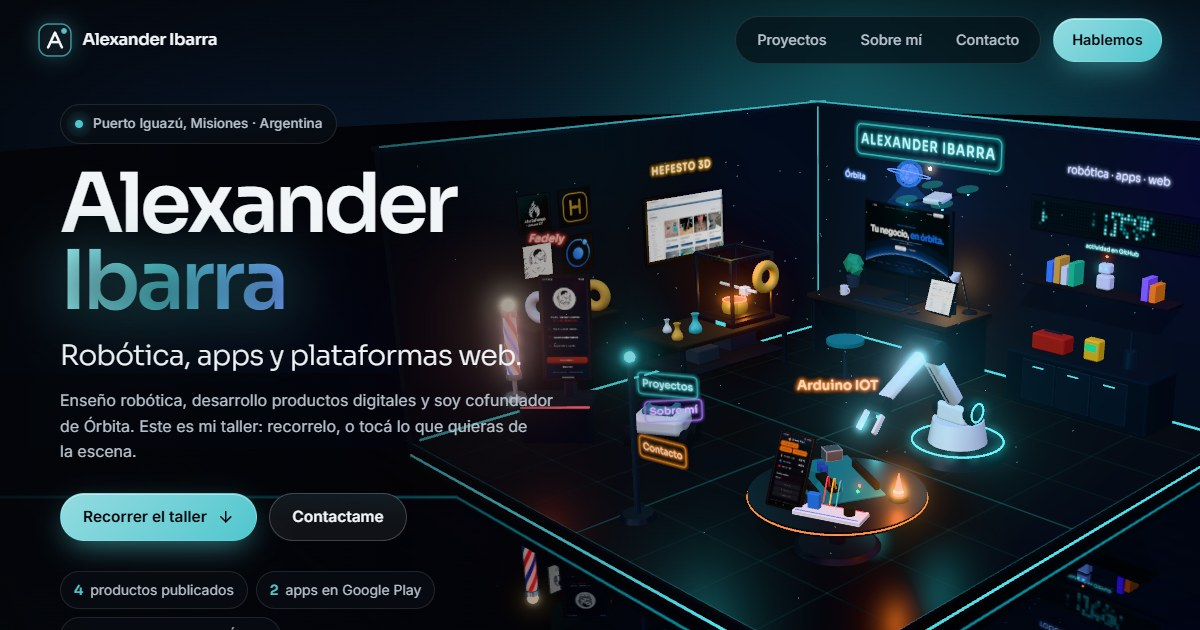
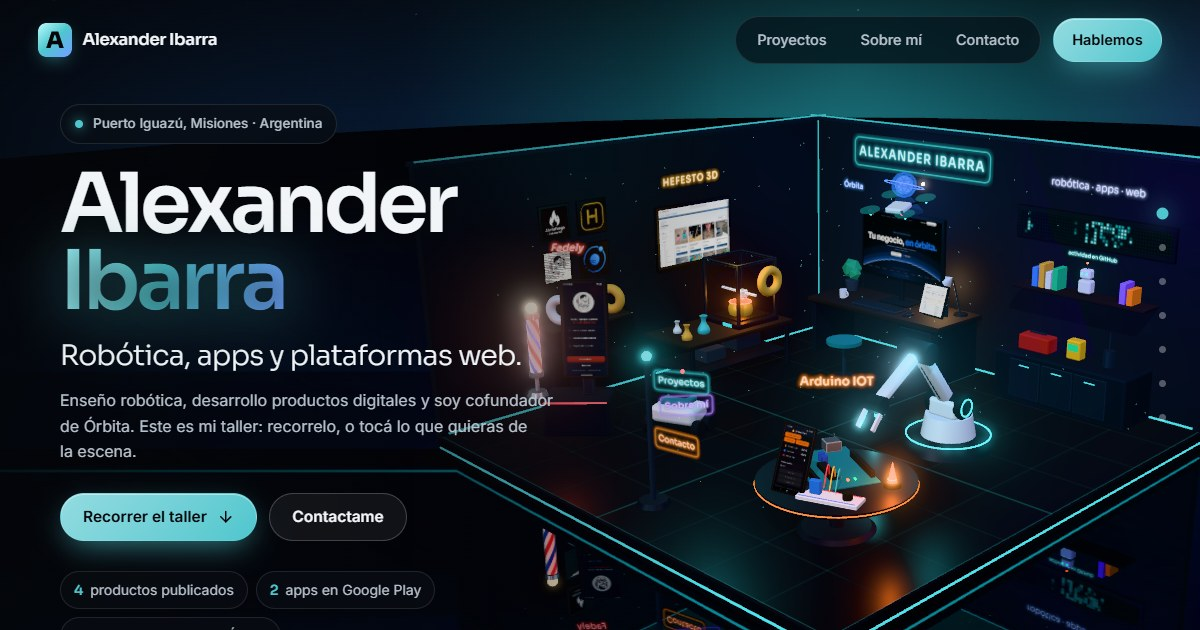
Actividad de GitHub sin depender del token, y arreglos de la escena
- api/github: si el token falta o venció, lee el calendario público del perfil
- taller: no dibuja mientras el lienzo no tiene tamaño
- logo y favicon nuevos, y metadatos completos para compartir el enlace

diff --git a/api/github.js b/api/github.js
@@ -1,81 +1,109 @@
 // api/github.js
-export default async function handler(req, res) {
-  try {
-    const username = process.env.GITHUB_USERNAME;
-    const token = process.env.GITHUB_TOKEN;
+// Contribuciones del año en GitHub, para el panel de LEDs del taller.
+// Usa la API oficial si hay un token válido; si no hay, o GitHub lo rechaza (por ejemplo, porque
+// venció), lee el calendario público del perfil, que no necesita token.
 
-    if (!username) {
-      return res.status(500).json({ error: "Falta GITHUB_USERNAME en Vercel." });
-    }
+const CAP = 10;
 
-    // SOLO 2026
-    const from = "2026-01-01T00:00:00Z";
-    const to = "2026-12-31T23:59:59Z";
-
-
-    const query = `
-      query ($login: String!, $from: DateTime!, $to: DateTime!) {
-        user(login: $login) {
-          contributionsCollection(from: $from, to: $to) {
-            contributionCalendar {
-              totalContributions
-              weeks {
-                contributionDays {
-                  date
-                  contributionCount
-                }
-              }
-            }
+// API oficial (GraphQL): necesita GITHUB_TOKEN
+async function fromApi(username, token, year) {
+  const query = `
+    query ($login: String!, $from: DateTime!, $to: DateTime!) {
+      user(login: $login) {
+        contributionsCollection(from: $from, to: $to) {
+          contributionCalendar {
+            totalContributions
+            weeks { contributionDays { date contributionCount } }
           }
         }
       }
-    `;
-
-    const ghRes = await fetch("https://api.github.com/graphql", {
-      method: "POST",
-      headers: {
-        "Content-Type": "application/json",
-        ...(token ? { Authorization: `Bearer ${token}` } : {}),
-      },
-      body: JSON.stringify({
-        query,
-        variables: { login: username, from, to },
-      }),
-    });
-
-    const raw = await ghRes.text();
-    let data = {};
-    try { data = raw ? JSON.parse(raw) : {}; } catch { }
-
-    if (!ghRes.ok || data.errors) {
-      return res.status(500).json({
-        error: data?.errors?.[0]?.message || "Error consultando GitHub GraphQL",
-        details: data,
-      });
     }
+  `;
 
-    const weeks =
-      data?.data?.user?.contributionsCollection?.contributionCalendar?.weeks || [];
+  const ghRes = await fetch("https://api.github.com/graphql", {
+    method: "POST",
+    headers: { "Content-Type": "application/json", Authorization: `Bearer ${token}` },
+    body: JSON.stringify({
+      query,
+      variables: { login: username, from: `${year}-01-01T00:00:00Z`, to: `${year}-12-31T23:59:59Z` },
+    }),
+  });
 
-    const CAP = 10;
-    const dates = [];
-
-    for (const w of weeks) {
-      for (const d of w.contributionDays) {
-        const repeat = Math.min(d.contributionCount || 0, CAP);
-        for (let i = 0; i < repeat; i++) dates.push(d.date);
-      }
-    }
-
-    return res.status(200).json({
-      activityData: dates.join(","),
-      rangeStart: "2026-01-01",
-      rangeEnd: "2026-12-31",
-      cap: CAP,
-      total:
-        data.data.user.contributionsCollection.contributionCalendar.totalContributions,
-    });
-  } catch (err) {
-    return res.status(500).json({ error: "Error inesperado.", detail: String(err) });
+  const data = await ghRes.json().catch(() => ({}));
+  if (!ghRes.ok || data.errors) {
+    throw new Error(data?.errors?.[0]?.message || data?.message || `GitHub respondió ${ghRes.status}`);
   }
+
+  const calendar = data?.data?.user?.contributionsCollection?.contributionCalendar;
+  if (!calendar) throw new Error("GitHub no devolvió el calendario");
+  const days = calendar.weeks.flatMap((w) => w.contributionDays.map((d) => [d.date, d.contributionCount || 0]));
+  return { days, total: calendar.totalContributions };
+}
+
+// calendario público del perfil: el mismo que se ve en github.com, sin token
+async function fromProfile(username, year) {
+  const ghRes = await fetch(
+    `https://github.com/users/${encodeURIComponent(username)}/contributions?from=${year}-01-01&to=${year}-12-31`,
+    { headers: { "User-Agent": "portfolio-activity", "X-Requested-With": "XMLHttpRequest" } },
+  );
+  if (!ghRes.ok) throw new Error(`el calendario público respondió ${ghRes.status}`);
+  const html = await ghRes.text();
+
+  // cada día es una celda con su fecha, y la cantidad está en el cartelito (tool-tip) que la acompaña
+  const tips = new Map(
+    [...html.matchAll(/<tool-tip\b[^>]*\bfor="([^"]+)"[^>]*>([^<]*)<\/tool-tip>/g)].map((m) => [m[1], m[2]]),
+  );
+  const days = [];
+  for (const [tag] of html.matchAll(/<td\b[^>]*\bdata-date="[^"]+"[^>]*>/g)) {
+    const date = tag.match(/\bdata-date="([^"]+)"/)[1];
+    const id = tag.match(/\bid="([^"]+)"/)?.[1];
+    const count = Number((tips.get(id) || "").match(/(\d+) contribution/)?.[1] || 0);
+    days.push([date, count]);
+  }
+  if (!days.length) throw new Error("no se pudo leer el calendario público");
+  return { days, total: days.reduce((sum, [, count]) => sum + count, 0) };
+}
+
+export default async function handler(req, res) {
+  const username = process.env.GITHUB_USERNAME || "ale050417";
+  const token = process.env.GITHUB_TOKEN;
+  const year = new Date().getUTCFullYear();
+
+  const problems = [];
+  let result = null;
+  if (token) {
+    try {
+      result = await fromApi(username, token, year);
+    } catch (err) {
+      problems.push(`API: ${err.message}`);
+    }
+  }
+  if (!result) {
+    try {
+      result = await fromProfile(username, year);
+    } catch (err) {
+      problems.push(`perfil: ${err.message}`);
+    }
+  }
+
+  if (!result) {
+    res.setHeader("Cache-Control", "no-store");
+    return res.status(502).json({ error: "No se pudo leer la actividad de GitHub.", details: problems });
+  }
+
+  // la API repite cada fecha una vez por contribución, con tope
+  const dates = [];
+  for (const [date, count] of result.days) {
+    for (let i = 0; i < Math.min(count, CAP); i++) dates.push(date);
+  }
+
+  // la actividad cambia poco: la respuesta queda guardada una hora en la red de Vercel
+  res.setHeader("Cache-Control", "public, s-maxage=3600, stale-while-revalidate=86400");
+  return res.status(200).json({
+    activityData: dates.join(","),
+    rangeStart: `${year}-01-01`,
+    rangeEnd: `${year}-12-31`,
+    cap: CAP,
+    total: result.total,
+  });
 }

diff --git a/index.html b/index.html
@@ -10,17 +10,25 @@
     <meta name="author" content="Alexander Ibarra">
     <meta name="theme-color" content="#04060A">
     <meta name="color-scheme" content="dark">
+    <link rel="canonical" href="https://www.alexanderibarra.com.ar/">
 
+    <!-- vista previa al compartir el enlace (WhatsApp, LinkedIn…): la imagen necesita la dirección completa -->
     <meta property="og:type" content="website">
     <meta property="og:locale" content="es_AR">
     <meta property="og:site_name" content="Alexander Ibarra">
+    <meta property="og:url" content="https://www.alexanderibarra.com.ar/">
     <meta property="og:title" content="Alexander Ibarra — Robótica, apps y plataformas web">
     <meta property="og:description"
         content="Un taller en 3D para recorrer: Órbita, Fadely, Hefesto 3D y Arduino IOT.">
-    <meta property="og:image" content="assets/og.jpg">
+    <meta property="og:image" content="https://www.alexanderibarra.com.ar/assets/og.jpg">
+    <meta property="og:image:width" content="1200">
+    <meta property="og:image:height" content="630">
+    <meta property="og:image:alt" content="El taller 3D del portafolio de Alexander Ibarra">
     <meta name="twitter:card" content="summary_large_image">
 
+    <link rel="icon" href="assets/favicon-32.png" sizes="32x32" type="image/png">
     <link rel="icon" href="assets/favicon.svg" type="image/svg+xml">
+    <link rel="apple-touch-icon" href="assets/apple-touch-icon.png">
 
     <!-- three.js para la escena 3D -->
     <script type="importmap">
@@ -80,6 +88,7 @@
         "@context": "https://schema.org",
         "@type": "Person",
         "name": "Alexander Ibarra",
+        "url": "https://www.alexanderibarra.com.ar/",
         "jobTitle": "Facilitador de robótica, desarrollador y cofundador de Órbita",
         "email": "mailto:alexanderibarra.dev@gmail.com",
         "address": {
@@ -141,10 +150,16 @@
     <!------------- encabezado ------------->
     <header class="site-header" id="siteHeader">
         <a class="brand" href="#inicio" aria-label="Alexander Ibarra, ir al inicio">
-            <svg class="brand__mark" viewBox="0 0 32 32" aria-hidden="true" focusable="false">
-                <rect class="brand__mark-bg" x="1" y="1" width="30" height="30" rx="9"/>
-                <path class="brand__mark-a" d="M9.5 23 16 9l6.5 14M12 18h8"/>
-                <circle class="brand__mark-dot" cx="24.5" cy="7.5" r="2.6"/>
+            <svg class="brand__mark" viewBox="0 0 64 64" aria-hidden="true" focusable="false">
+                <defs>
+                    <linearGradient id="brandFondo" x1="6" y1="4" x2="58" y2="60" gradientUnits="userSpaceOnUse">
+                        <stop offset="0" stop-color="#A8F5F8"/>
+                        <stop offset=".48" stop-color="#4FC6CE"/>
+                        <stop offset="1" stop-color="#6EA4FF"/>
+                    </linearGradient>
+                </defs>
+                <rect width="64" height="64" rx="15" fill="url(#brandFondo)"/>
+                <path d="M15.57 47.1 25.5 16.1H38.16L48.43 47.1H40.28L32.3 21.62L34.55 22.47H28.94L31.24 21.62L23.46 47.1ZM23.68 39.92 26.05 33.47H37.82L40.2 39.92Z" fill="#04060A"/>
             </svg>
             <span class="brand__name">Alexander Ibarra</span>
         </a>

diff --git a/taller.js b/taller.js
@@ -1303,6 +1303,8 @@ const pointer = new THREE.Vector2();
 const pointerSmooth = new THREE.Vector2();
 let width = 1;
 let height = 1;
+// el lienzo no tiene tamaño (ventana minimizada, o las herramientas de desarrollo tapando la página)
+let empty = false;
 let intro = reduced ? 1 : 0;
 let started = false;
 
@@ -1319,6 +1321,9 @@ function resize(force) {
     // rehace cada vez que aparecen y desaparecen al deslizar
     const w = canvas.clientWidth;
     const h = canvas.clientHeight;
+    // con tamaño cero no hay dónde dibujar: se espera a que vuelva, sin tocar nada
+    empty = !w || !h;
+    if (empty) return;
     if (force === true || w !== width || h !== height) {
         width = w;
         height = h;
@@ -1488,6 +1493,7 @@ let samples = 0;
 function tick(now) {
     const since = Math.min(now - (last || now), 100);
     last = now;
+    if (empty) return;
 
     if (started && intro < 1) intro = Math.min(1, intro + since / 2600);
     updateGoal();
@@ -1551,6 +1557,8 @@ function tick(now) {
 
 // ---------- interacción ----------
 addEventListener('resize', resize);
+// (el lienzo también puede cambiar de tamaño sin que cambie la ventana)
+new ResizeObserver(() => resize()).observe(canvas);
 addEventListener('pointermove', (e) => {
     pointer.set((e.clientX / width) * 2 - 1, -(e.clientY / height) * 2 + 1);
     if (touch) return;
@@ -1636,6 +1644,8 @@ if (lite) optimize();
 clock('bake', mark);
 await breathe();
 
+// una pestaña abierta en segundo plano puede no tener tamaño todavía: se espera a que lo tenga
+while (!canvas.clientWidth || !canvas.clientHeight) await new Promise((done) => { setTimeout(done, 250); });
 resize(true);
 updateGoal();
 view.pos.copy(goal.pos);

diff --git a/style.css b/style.css
@@ -509,28 +509,12 @@ html:not(.js) .loader {
     letter-spacing: -.02em;
 }
 
+/* el logo: la A de los títulos sobre el degradé del sitio, con un brillo suave debajo */
 .brand__mark {
     width: 34px;
     height: 34px;
-    filter: drop-shadow(0 0 10px rgba(79, 198, 206, .45));
-}
-
-.brand__mark-bg {
-    fill: rgba(11, 16, 23, .7);
-    stroke: rgba(79, 198, 206, .7);
-    stroke-width: 1.4;
-}
-
-.brand__mark-a {
-    fill: none;
-    stroke: var(--fg);
-    stroke-width: 2.4;
-    stroke-linecap: round;
-    stroke-linejoin: round;
-}
-
-.brand__mark-dot {
-    fill: var(--teal);
+    border-radius: 8px;
+    box-shadow: 0 6px 18px -6px rgba(79, 198, 206, .65);
 }
 
 .nav {
@@ -1469,8 +1453,7 @@ main {
         transition: opacity .6s var(--ease), transform .6s var(--ease);
     }
 
-    .hero__title span,
-    .brand__mark {
+    .hero__title span {
         filter: none;
     }
 }
